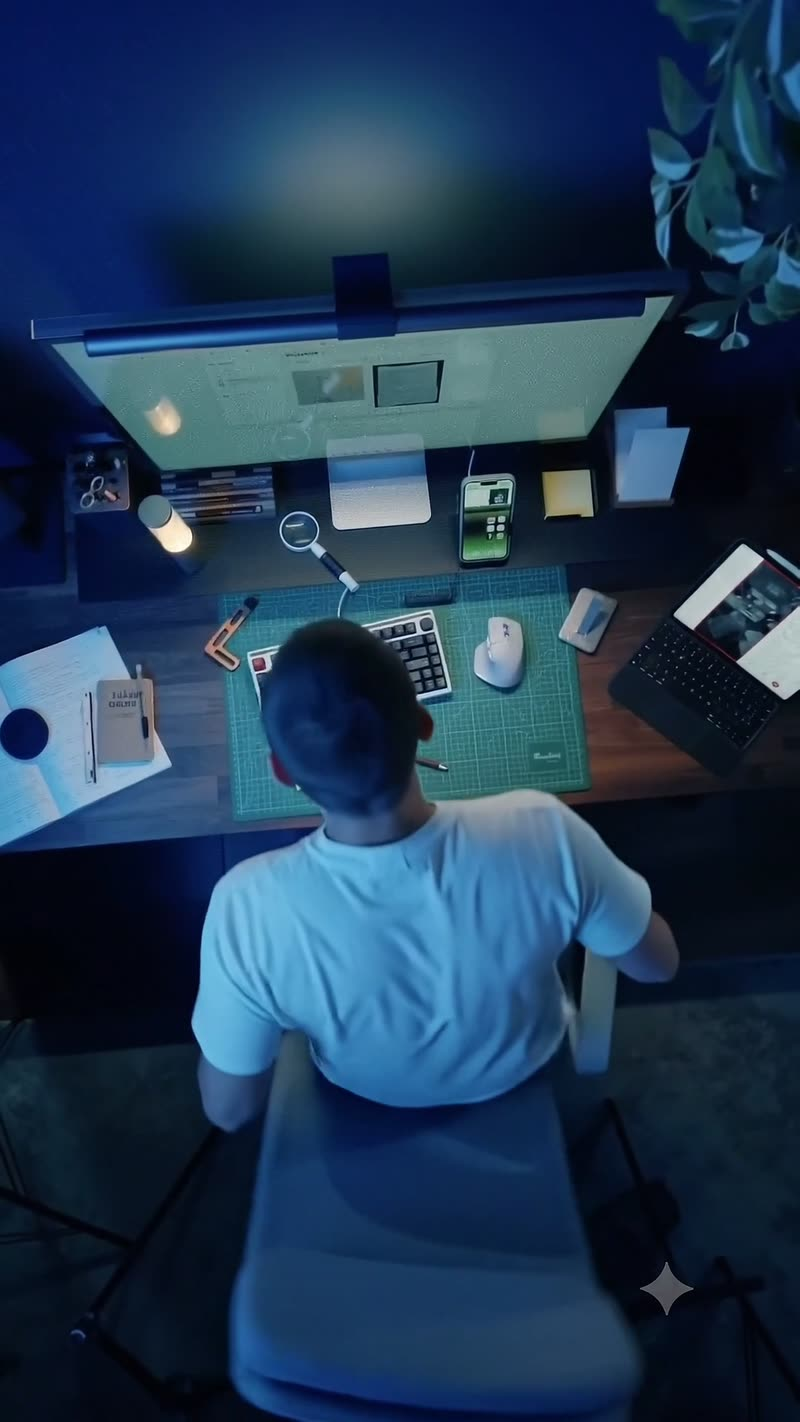
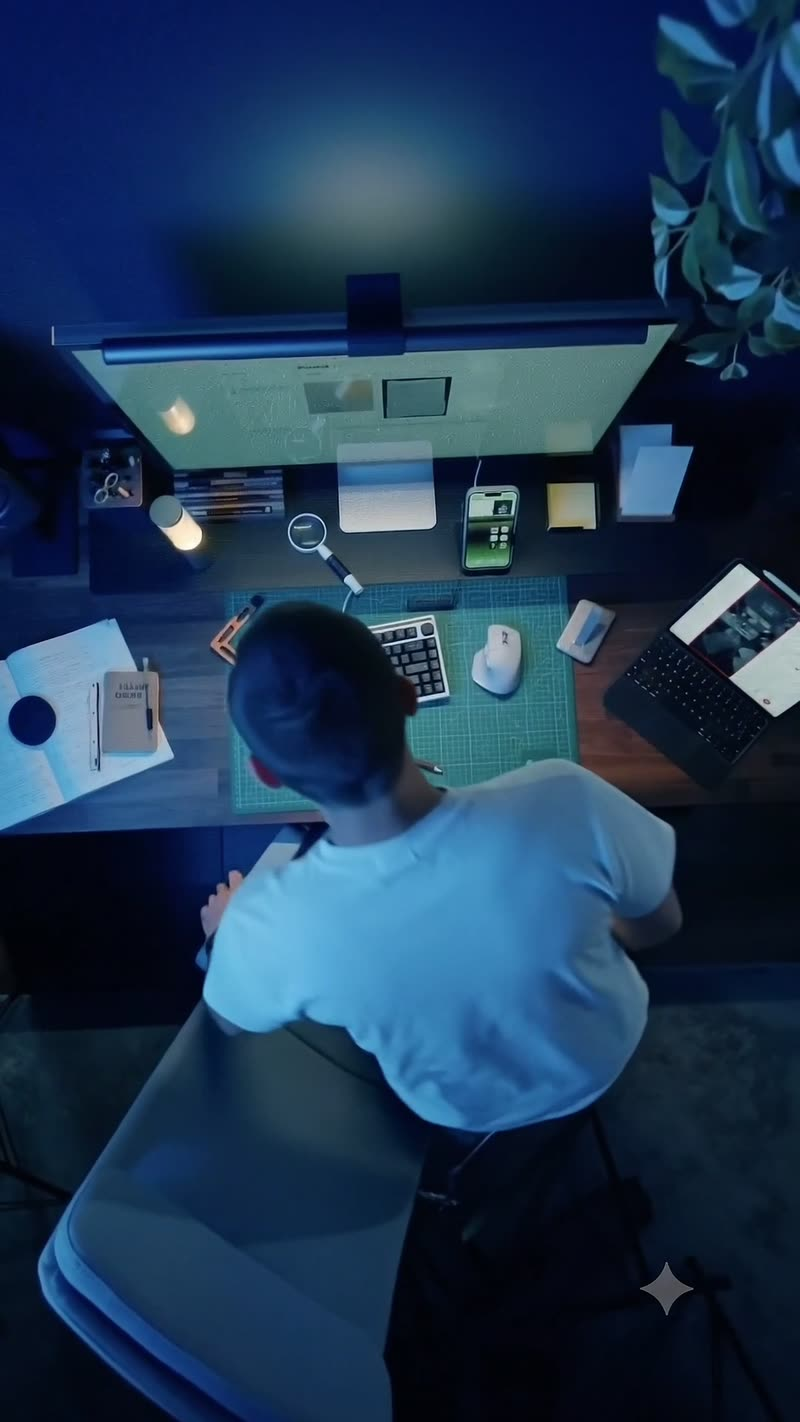
Swap intro footage to take 2, fade in video at hero seam, ease scroll
Video (Интро_Финалка_2.mp4, 1080x1920 60fps, 3.3s):
- Re-extracted the 24-frame scrub sequence from the new take (same
  ffmpeg pipeline as before: fps sampling, 800px wide, JPEG q4, ~1.8MB
  total). Still one continuous shot, no hardCuts.
- Hands land on the keyboard earlier in this take (frame 14 vs 11) —
  retimed the text-reveal threshold from p>=0.45 to p>=0.56 to match.

Scroll smoothness:
- The hero -> "Знакомство" seam was the one real hard cut on the page:
  the canvas snapped to full brightness the instant it came into view,
  right next to the fading hero. Added a one-shot IntersectionObserver
  (introRevealObserver) that fades canvasA + .intro-tint in via CSS
  transition, triggered early (rootMargin 40% before the section is
  on screen) so it's fully settled before the sticky pin engages.
- Bumped the existing scroll-effects lerp smoothing (SMOOTH_HALFLIFE_MS
  55 -> 80) for a bit more inertia without making the scrub feel laggy.
- Everything else (native scroll, no scroll-hijacking library, the
  existing IntersectionObserver reveal system on cases/contact/footer/
  services, the continuous light/dark theme crossfade) was already in
  place and already smooth — left as is per the "don't rewrite what
  already works" brief. Documented the whole scroll architecture in
  README under a new "Скролл: нативный, без сторонних библиотек"
  section.

Verified with a headless Chromium pass: fade-in captured mid-transition
[…]

diff --git a/js/main.js b/js/main.js
@@ -158,11 +158,30 @@ const scrubA = makeCoverScrubber({
   // один непрерывный дубль (сел → руки на клавиатуру), склеек нет
   hardCuts: [],
   onProgress(p) {
-    // текст появляется, когда руки лягут на клавиатуру (кадр 11 из 24 —
-    // p ≈ 10/23), и остаётся на экране до конца пина
-    introCopy.classList.toggle('is-visible', p >= 0.45);
+    // текст появляется, когда руки лягут на клавиатуру (кадр 14 из 24 —
+    // p ≈ 13/23), и остаётся на экране до конца пина
+    introCopy.classList.toggle('is-visible', p >= 0.56);
   },
 });
+
+// стык hero → «Знакомство»: без этого канвас с первым же пикселем в
+// вьюпорте уже стоит в полной яркости — рядом с гаснущим hero это
+// читается как щелчок, а не переход. rootMargin с большим отступом
+// снизу срабатывает, пока секция ещё на ~40% высоты экрана ниже
+// вьюпорта — за время transition (см. .intro-sticky canvas в
+// css/style.css) канвас успевает выйти на полную непрозрачность
+// раньше, чем пользователь долистает до самого пина, поэтому сам
+// момент прилипания уже ничем не выделяется на глаз. Разовый триггер,
+// как и у остальных .reveal-block на странице — дальше не трогаем.
+const introRevealObserver = new IntersectionObserver((entries) => {
+  entries.forEach((entry) => {
+    if (entry.isIntersecting) {
+      entry.target.classList.add('is-visible');
+      introRevealObserver.unobserve(entry.target);
+    }
+  });
+}, { threshold: 0, rootMargin: '0px 0px 40% 0px' });
+introRevealObserver.observe(document.querySelector('.intro-sticky'));
 
 /* ==================================================================
    ФОН СЕКЦИЙ — вся страница как единое полотно с непрерывным градиентом
@@ -641,7 +660,7 @@ function updateProgressRail(scrollPos) {
    реально прошедшему времени, а не за "тик" — так эффект не зависит
    от частоты кадров.
    ================================================================== */
-const SMOOTH_HALFLIFE_MS = 55; // за это время разрыв между smoothY и целью уменьшается вдвое
+const SMOOTH_HALFLIFE_MS = 80; // за это время разрыв между smoothY и целью уменьшается вдвое
 let smoothY = window.scrollY;
 let rafRunning = false;
 let lastTickTime = 0;

diff --git a/css/style.css b/css/style.css
@@ -330,13 +330,26 @@ a:focus-visible,button:focus-visible,input:focus-visible,textarea:focus-visible{
 #sceneA{--accent:#5aa3e8;}
 .intro-scene{position:relative;height:320vh;}
 .intro-sticky{position:sticky;top:0;height:100vh;overflow:hidden;background:var(--bg);}
-.intro-sticky canvas{position:absolute;inset:0;width:100%;height:100%;display:block;}
+/* видео не "впечатывается" в кадр разом при стыке с hero — канвас и
+   тонировка вместе набирают непрозрачность, когда секция подходит
+   к вьюпорту (.is-visible ставится один раз через IntersectionObserver
+   в js/main.js, см. introRevealObserver, с запасом по rootMargin —
+   переход успевает завершиться до того, как секция реально встанет
+   в кадр целиком) */
+.intro-sticky canvas{
+  position:absolute;inset:0;width:100%;height:100%;display:block;
+  opacity:0;transform:scale(1.035);
+  transition:opacity 1s var(--ease), transform 1.1s var(--ease);
+}
+.intro-sticky.is-visible canvas{opacity:1;transform:scale(1);}
 .intro-tint{
   position:absolute;inset:0;pointer-events:none;
+  opacity:0;transition:opacity 1s var(--ease);
   background:
     radial-gradient(ellipse 70% 60% at 50% 40%, rgba(15,30,55,0.05), rgba(6,12,24,0.55) 100%),
     linear-gradient(0deg, rgba(4,8,16,0.75) 0%, rgba(4,8,16,0.05) 32%, rgba(4,8,16,0.05) 70%, rgba(4,8,16,0.55) 100%);
 }
+.intro-sticky.is-visible .intro-tint{opacity:1;}
 .intro-copy{
   position:absolute;left:6%;bottom:12%;z-index:2;max-width:520px;
   padding:26px 30px;border-radius:3px;

diff --git a/index.html b/index.html
@@ -28,7 +28,7 @@
   ═══════════════════════════════════════════════════════════
   ВНИМАНИЕ: видео на сайте — hero (assets/hero.mp4) и кадровая
   секвенция «Знакомство» (assets/frames/sceneA, 24 кадра, вырезаны из
-  реального вертикального ролика «Интро_финалка», один непрерывный
+  реального вертикального ролика «Интро_Финалка_2», один непрерывный
   дубль без монтажных склеек; см. README). Тема
   каждой секции задаётся атрибутом
   [data-theme] (см. css/style.css), фон непрерывно перетекает через

diff --git a/README.md b/README.md
@@ -139,6 +139,50 @@ z-index).
    разваливалась); и уже внутри неё `.service-object-card` — своя
    постоянная анимация покачивания (`serviceObjectFloat`).
 
+### Скролл: нативный, без сторонних библиотек
+
+Скролл на странице — обычный браузерный (нет Lenis/Locomotive/GSAP
+ScrollTrigger, `window.scrollY` как есть, скроллбар, клавиатура и
+трекпад-инерция работают штатно). Кастомная часть — только "MAIN SCROLL
+LOOP" внизу `js/main.js`: на каждый `scroll`/`resize` виртуальное значение
+`smoothY` лerp-ом (по прошедшему времени, не по тику — не зависит от
+FPS) догоняет реальный `window.scrollY`, и уже от `smoothY`, а не от
+самого скролла, считаются все скролл-зависимые эффекты (`updateHero`,
+`scrubA.update`, параллаксы, `updateTheme`, `updateProgressRail`). Сам
+скролл при этом не хватается и не подменяется — эффекты просто чуть
+"досгоняют" реальную позицию (`SMOOTH_HALFLIFE_MS = 80`: за 80мс разрыв
+сокращается вдвое), отчего резкие скачки колёсика читаются мягче, а
+скролл при этом остаётся полностью отзывчивым. При
+`prefers-reduced-motion: reduce` сглаживание отключается совсем —
+`smoothY` синхронизируется с `window.scrollY` напрямую, без lerp.
+
+Резких обрывов между разделами на странице почти нет: фон и все темы —
+одно непрерывное полотно без пересечений цвета (см. выше), карточки/
+блоки уже входят в вьюпорт через reveal-transition (см. выше). Одно
+реальное место, где "прыгало", — стык hero → «Знакомство»: hero гаснет
+плавно (`updateHero`), но канвас-видео сразу под ним стояло в полной
+яркости с первого же кадра, и на фоне гаснущего hero это читалось как
+щелчок. Починено тем же приёмом, что и везде на странице — разовый
+`IntersectionObserver` (`introRevealObserver`) вешает `.is-visible` на
+`.intro-sticky`, канвас и `.intro-tint` набирают непрозрачность через
+CSS-transition (см. `css/style.css`), с запасом по `rootMargin`, чтобы
+переход завершался раньше, чем секция реально встанет в кадр целиком.
+Выход из «Знакомства» в «Услуги» уже был плавным и без правок — секция
+просто уезжает вверх как обычный блок, а смену тёмного фона на светлый
+несёт тот же непрерывный `updateTheme`, что и everywhere.
+
+Про производительность: секция «Знакомство» — не `<video>`, а канвас с
+24 JPG-кадрами (см. выше), поэтому в скролле нет одновременно идущего
+видео-декодирования — только `drawImage` в канвас, и то не на каждый
+кадр анимации, а лишь когда индекс кадра реально меняется (кэш
+`lastBlendKey` в `makeCoverScrubber`). "Тяжёлого видео" в смысле
+непрерывно играющего файла на странице нет вообще — только `hero.mp4`
+(автоплей, но некликабельный крошечный луп в hero, не завязан на
+скролл) и сама секвенция кадров «Знакомства», которая весит меньше
+разжатого видео сравнимой длины и явно догружается прелоадером до
+показа сайта — просадок по FPS от параллельной декомпрессии видео
+здесь в принципе неоткуда взяться.
+
 - **Hero** — фоновое видео (`HERO_VIDEO_URL`) с логотипом; при скролле
   плавно гаснет и увеличивается. Сверху — HUD-строка технических
   индикаторов (`.hero-meta`): пульсирующий REC, статус "AGENCY / FULL
@@ -156,15 +200,21 @@ z-index).
   Скролл проигрывает кадры «подошёл → сел → положил руки на клавиатуру»;
   на последнем кадре движение останавливается и держится до конца пина,
   дальше секция заканчивается. Текстовая карточка появляется, когда руки
-  ложатся на клавиатуру (`p >= 0.45` — кадр 11 из 24).
+  ложатся на клавиатуру (`p >= 0.56` — кадр 14 из 24).
 
-  Кадры вырезаны (`ffmpeg -vf fps=24/5.033333`) из реального вертикального
-  ролика «Интро_финалка.mp4» (1080×1920, 5 c, один непрерывный дубль —
-  камера едет и слегка наезжает, пока герой садится и кладёт руки на
-  клавиатуру). Склеек нет, поэтому `hardCuts: []` в опциях
+  Кадры вырезаны (`ffmpeg -vf fps=24/3.333333`) из реального вертикального
+  ролика «Интро_Финалка_2.mp4» (1080×1920, 60fps, 3.3 c, один непрерывный
+  дубль — камера едет и слегка наезжает, пока герой садится и кладёт руки
+  на клавиатуру). Склеек нет, поэтому `hardCuts: []` в опциях
   `makeCoverScrubber`. Экспорт — 800px по широкой стороне, JPEG q≈4
-  (~1.9 МБ на все 24 кадра), формат имени `f_001.jpg…f_024.jpg` как и
-  раньше.
+  (~1.8 МБ на все 24 кадра), формат имени `f_001.jpg…f_024.jpg` как и
+  раньше. При появлении новой версии ролика — просто повторить ту же
+  экспорт-команду и подобрать заново кадр «руки легли на клавиатуру»
+  (он может сдвинуться от версии к версии).
+
+  Сама секция также фейдится при входе в вьюпорт (класс `.intro-fade-in`,
+  см. ниже про плавность скролла) — снимает жёсткий переход
+  «затемнённый hero → мгновенно яркий кадр видео» на стыке с hero.
 - **Услуги** (`#sceneB`) — четыре карточки одна под другой (SMM → Таргет
   → SEO → Продакшн) на светлом фоне, каждая "вылетает" из предыдущей (см.
   выше). Слева — тонкий вкладочный рейл (`position:sticky`,
